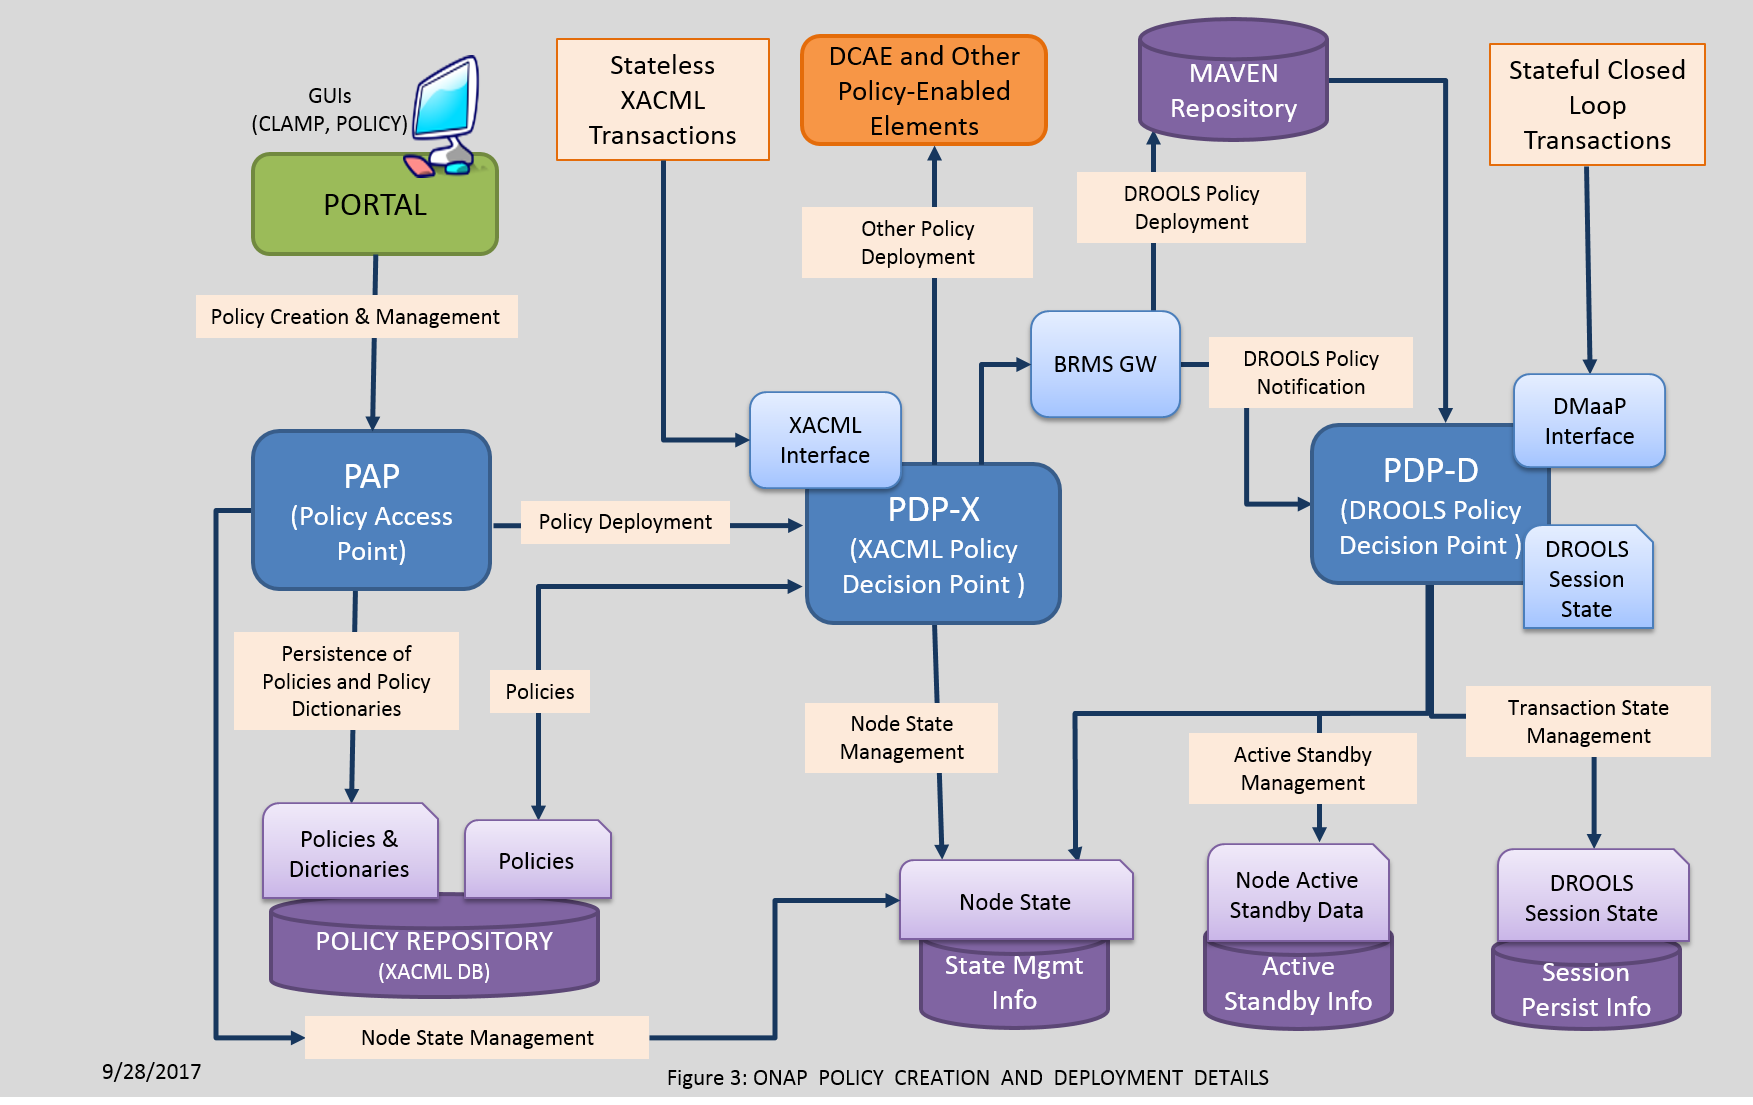
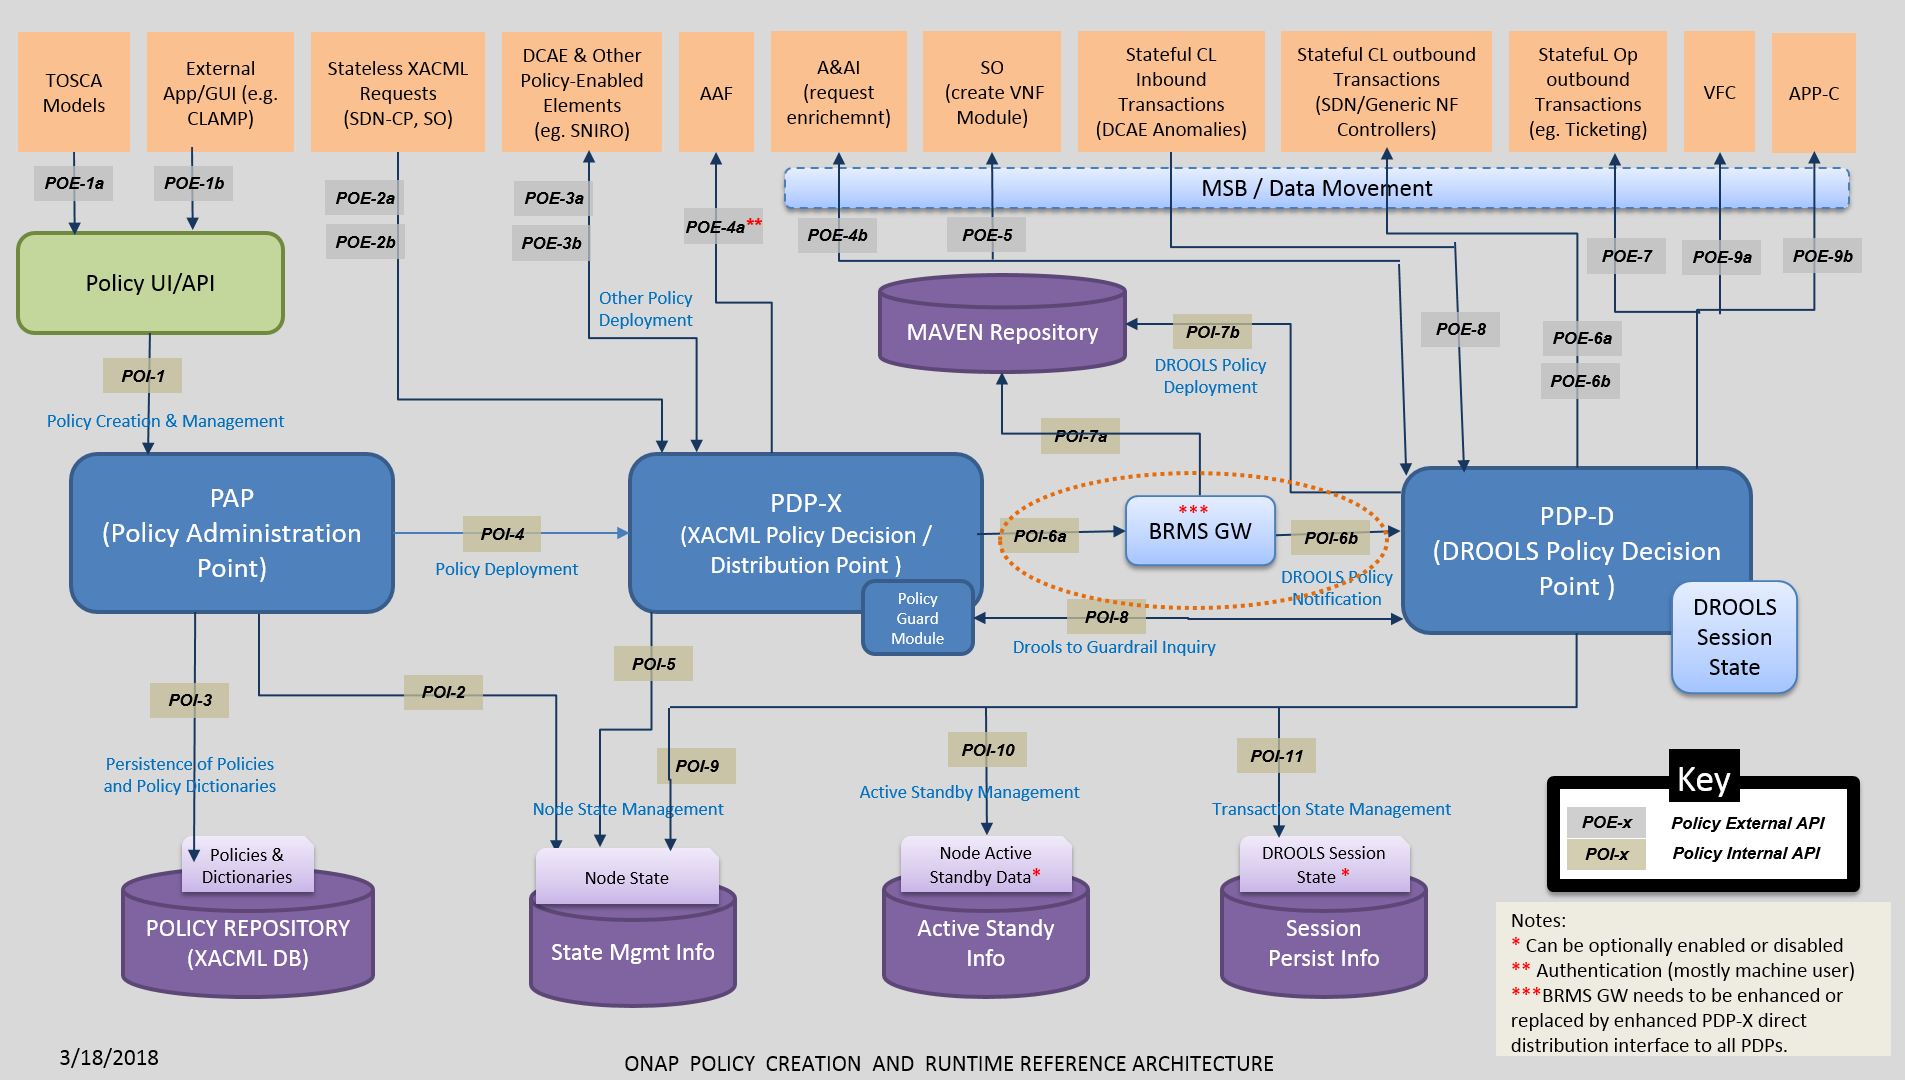
cookbook, updated architecture doc
policy documentation - cookbook, updated architecture
-------------------------------------------------------------

Issue-ID: POLICY-535

diff --git a/docs/platform/cookbook.rst b/docs/platform/cookbook.rst
@@ -1,0 +1,128 @@
+
+.. This work is licensed under a Creative Commons Attribution 4.0 International License.
+.. http://creativecommons.org/licenses/by/4.0
+
+*******************************
+Policy Cookbook  |cookbooklogo|
+*******************************
+
+Policy VM/Docker Recipes
+^^^^^^^^^^^^^^^^^^^^^^^^
+
+    .. code-block:: bash
+       :caption: Get latest images in an already setup policy VM
+       :linenos:
+
+        /opt/policy_vm_init.sh
+
+
+    .. code-block:: bash
+       :caption: Install/start docker policy containers with no policies preloaded
+       :linenos:
+
+        echo "PRELOAD_POLICIES=false" > /opt/policy/.env
+        /opt/policy_vm_init.sh
+
+
+    .. code-block:: bash
+       :caption: Install/start docker policy containers with policies preloaded
+       :linenos:
+
+        # This is the current default mode of instantiation.
+        # These operations are unnecessary unless PRELOAD_POLICIES
+        # was previously set to true
+         
+        echo "PRELOAD_POLICIES=true" > /opt/policy/.env
+        /opt/policy_vm_init.sh
+
+
+    .. code-block:: bash
+       :caption: Access the PDP-D container as a policy user
+       :linenos:
+
+        docker exec -it drools bash
+
+
+    .. code-block:: bash
+       :caption: Access the PDP-X container as a policy user
+       :linenos:
+
+        docker exec -it -u 0 pdp su - policy
+
+
+    .. code-block:: bash
+       :caption: Access the BRMSGW container as a policy user
+       :linenos:
+
+        docker exec -it -u 0 brmsgw su - policy
+
+
+    .. code-block:: bash
+       :caption: Access PAP container as a policy user
+       :linenos:
+
+        docker exec -it -u 0 pap su - policy
+
+
+    .. code-block:: bash
+       :caption: Access the CONSOLE container as a policy user
+       :linenos:
+
+        docker exec -it -u 0 console su - policy
+
+
+    .. code-block:: bash
+       :caption: Manual Healthcheck invokation
+       :linenos:
+
+        # Assuming the healthcheck service credentials have not been changed
+        # post-installation within the drools container
+         
+        source /opt/app/policy/config/feature-healthcheck.conf.environment
+        curl --silent --user "${HEALTHCHECK_USER}:${HEALTHCHECK_PASSWORD}" 
+             -X GET http://localhost:6969/healthcheck | python -m json.tool
+
+
+PDP-D Recipes ("drools" container)
+^^^^^^^^^^^^^^^^^^^^^^^^^^^^^^^^^^
+
+    .. code-block:: bash
+       :caption: Stop the PDP-D
+       :linenos:
+
+        policy stop
+
+
+    .. code-block:: bash
+       :caption: Start the PDP-D
+       :linenos:
+
+        policy start
+
+
+    .. code-block:: bash
+       :caption: Manual Healthcheck Invokation
+       :linenos:
+
+        # Assuming the healthcheck service credentials have not been changed
+        # post-installation within the drools container
+ 
+        source ${POLICY_HOME}/config/feature-healthcheck.conf
+        curl --silent --user "${HEALTHCHECK_USER}:${HEALTHCHECK_PASSWORD}" 
+             -X GET http://localhost:6969/healthcheck | python -m json.tool
+
+
+.. |recipelogo| image:: recipecard.png
+    :width: 80pt
+    :height: 80pt
+
+.. |cookbooklogo| image:: cookbook.gif
+    :width: 80pt
+    :height: 80pt
+
+End of Document
+
+.. SSNote: Wiki page ref. https://wiki.onap.org/display/DW/Policy+Cookbook
+
+
+

diff --git a/docs/platform/architecture.rst b/docs/platform/architecture.rst
@@ -35,6 +35,9 @@ As illustrated in the Figure below, the POLICY components are supported by a num
 .. image:: PolicyArchitectureDetails.png
 
 
+.. image:: PolicyArchitectureDetailsKey.png
+
+
 The PAP provides interfaces for the management of policies.  It utilizes the XACML database to store policies, which are then distributed to the PDPs.
 
 The XACML and Drools databases are hosted in a MariaDB cluster.  The XACML database is used to persist policies and policy dictionaries and provide a point for PDPs to retrieve policies.  The XACML database also has tables used for node state management, detection of node failure and failover. As indicated above, the state management tables will only include entries for the PAP and PDP-X as the testing is not yet complete for the PDP-D.
@@ -95,6 +98,8 @@ Attributes can be specified for each dimension. In addition to being defined for
 
 Policy writers can define attributes so that policy events or requests self-indicate their scope. The scope is then examined by a suitable function and subsequently acted upon accordingly. Policy decisions and enforcement functions can self-indicate their scope of decision-making, enforcement, or other capabilities. Virtual functions can be automatically attached to the appropriate POLICY Framework and distribution mechanisms.
 
+
+.. image:: PolicySummary.png
 
 End of Document
 

diff --git a/docs/platform/index.rst b/docs/platform/index.rst
@@ -35,6 +35,7 @@ Policy Platform Tutorials
 .. toctree::
    :maxdepth: 1
 
+   cookbook.rst
    deployPDPPAP.rst
    guardpolicy.rst
    guardpdp.rst
